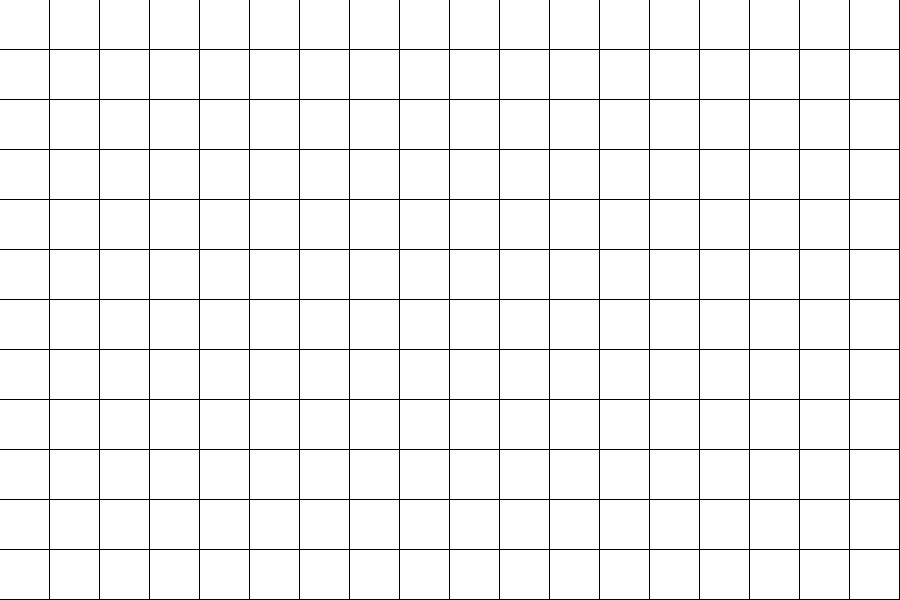
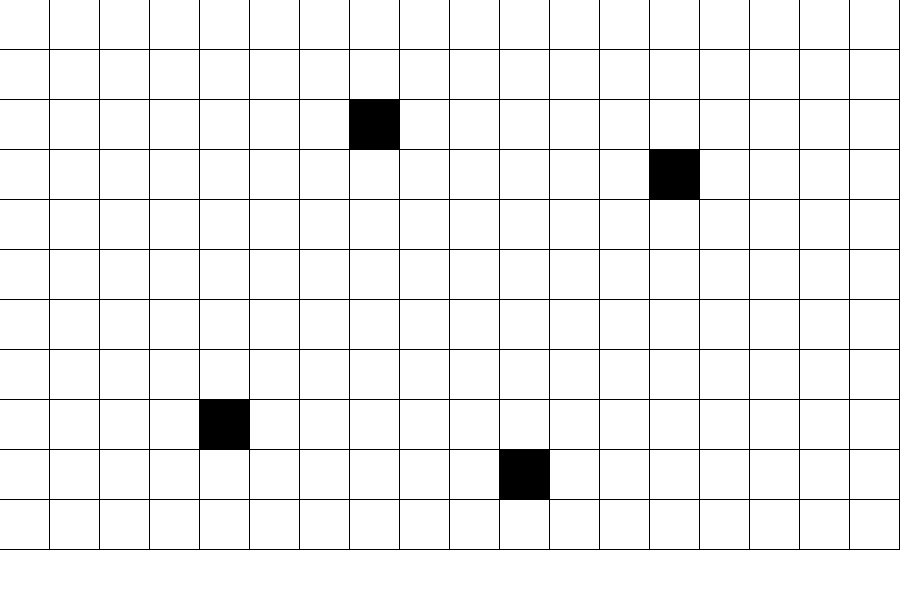
Beta 0.6
CHANGES TO CONQUEST.JAVA
Moved screen parameter setting-related commands to the
setScreenParameters() method, called from the constructor.
btnCapture is now initially disabled.
Added method checkPossibleCapture(), calls the findCapturePoint()
method. If findCapturePoint() returns true, btnCapture will be enabled.
Fixed upgrade button not mapped to relevant unit bug.

CHANGES TO CONQUESTMAP.JAVA
Added capture point location arrays.
Added initCapturePoitns method. Called from constructor.
Added findCapturePoint() method.

OTHER CHANGES
Changed map to have 4 black squares. These are capture points.

diff --git a/src/io/github/whalesaredelicious/conquest/Conquest.java b/src/io/github/whalesaredelicious/conquest/Conquest.java
@@ -46,6 +46,7 @@ public class Conquest extends JFrame {
     public static int intUnit2_2Power = 1;
     public static int intUnit2_3Power = 1;
     
+    private boolean booleanDiceRolled = false;
     public static boolean[] booleanUnitKilled = new boolean[6];
     
     public static boolean booleanIsPlayer1Turn = true;
@@ -95,12 +96,7 @@ public class Conquest extends JFrame {
         initLabels();
         initUnitsKilled();
         
-        setLayout(null);
-        setResizable(false);
-        setSize(600, 400); //Screen size
-        setAlwaysOnTop(true);
-        setLocationRelativeTo(null);
-        setLblUnitPower();
+        setScreenParameters();
     }
     
     //Main method
@@ -138,6 +134,14 @@ public class Conquest extends JFrame {
     }
     
     //Initialisation methods - setting up GUI elements
+    private void setScreenParameters() {
+        setLayout(null);
+        setResizable(false);
+        setSize(600, 400); //Screen size
+        setAlwaysOnTop(true);
+        setLocationRelativeTo(null);
+        setLblUnitPower();
+    }
     private void initControls() {
         /*
             Higher-level method that oversees the initialisation
@@ -309,6 +313,8 @@ public class Conquest extends JFrame {
         
         //Move count related buttons are disabled initially
         toggleMoveCountButtonState(false, false);
+        //Disable capture button
+        btnCapture.setEnabled(false);
 
     }
     private void setLabelParameters() {
@@ -342,6 +348,10 @@ public class Conquest extends JFrame {
     }
     
     //Unit management methods
+    private void checkPossibleCapture() {
+        int unitSelected = getSelectedUnit();
+        btnCapture.setEnabled(ConquestMap.findCapturePoint(unitSelected));
+    }
     public static int getSelectedUnit() {
         //Find the current selected unit.
         if (booleanIsPlayer1Turn) {
@@ -382,6 +392,7 @@ public class Conquest extends JFrame {
             if (processMove(1)) {
                 ConquestMap.move(moveDirection);
                 checkPossibleMoveDirections();
+                checkPossibleCapture();
             }
         }
     }
@@ -620,15 +631,15 @@ public class Conquest extends JFrame {
             switch (unitNumber) {
                 case 0:
                     btnSelectUnit1.setEnabled(true);
-                    btnUpgradeUnit1.setEnabled(true);
+                    //btnUpgradeUnit1.setEnabled(true);
                     break;
                 case 1:
                     btnSelectUnit2.setEnabled(true);
-                    btnUpgradeUnit2.setEnabled(true);
+                    //btnUpgradeUnit2.setEnabled(true);
                     break;
                 case 2:
                     btnSelectUnit3.setEnabled(true);
-                    btnUpgradeUnit2.setEnabled(true);
+                    //btnUpgradeUnit3.setEnabled(true);
                     break;
                 default:
                     log("Invalid unit parameter. (disableUnitButtons)");
@@ -639,15 +650,15 @@ public class Conquest extends JFrame {
             switch (unitNumber) {
                 case 3:
                     btnSelectUnit1.setEnabled(true);
-                    btnUpgradeUnit1.setEnabled(true);
+                    //btnUpgradeUnit1.setEnabled(true);
                     break;
                 case 4:
                     btnSelectUnit2.setEnabled(true);
-                    btnUpgradeUnit2.setEnabled(true);
+                    //btnUpgradeUnit2.setEnabled(true);
                     break;
                 case 5:
                     btnSelectUnit3.setEnabled(true);
-                    btnUpgradeUnit2.setEnabled(true);
+                    //btnUpgradeUnit3.setEnabled(true);
                     break;
                 default:
                     log("Invalid unit parameter. (disableUnitButtons)");
@@ -804,6 +815,7 @@ public class Conquest extends JFrame {
         setLblUnitPower();
 
         toggleMoveCountButtonState(false, false); //disable all buttons.
+        booleanDiceRolled = false;
         btnRollDice.setEnabled(true); //enable roll dice button
         checkUnitsKilled(); //check for units that have been killed.
     }
@@ -832,10 +844,7 @@ public class Conquest extends JFrame {
         btnUpgradeUnit2.setEnabled(true);
         btnUpgradeUnit3.setEnabled(true);
         
-        //Check if attack mode is enabled.l
-        if (booleanAttackMode) {
-            attackMode();
-        }
+        booleanDiceRolled = true;
         
         //Check which units are killed
         checkUnitsKilled();
@@ -1032,15 +1041,21 @@ public class Conquest extends JFrame {
     }
     private void btnSelectUnit1Pressed(ActionEvent evt) {
         selectUnit(0);
-        disableAttackMode();
+        if (booleanAttackMode) {
+            disableAttackMode();
+        }
     }
     private void btnSelectUnit2Pressed(ActionEvent evt) {
         selectUnit(1);
-        disableAttackMode();
+        if (booleanAttackMode) {
+            disableAttackMode();
+        }
     }
     private void btnSelectUnit3Pressed(ActionEvent evt) {
         selectUnit(2);
-        disableAttackMode();
+        if (booleanAttackMode) {
+            disableAttackMode();
+        }
     }
     private void btnUpgradeUnit1Pressed(ActionEvent evt) {
         upgradeUnit(1, 1);
@@ -1060,13 +1075,18 @@ public class Conquest extends JFrame {
     private void btnAttackPressed(ActionEvent evt) {
         //Toggle attack mode.
         if (booleanUnitSelected) {
-            if (booleanAttackMode) {
-                booleanAttackMode = false;
-                disableAttackMode();
+            if (booleanDiceRolled) {
+                if (booleanAttackMode) {
+                    booleanAttackMode = false;
+                    disableAttackMode();
+                }
+                else {
+                    booleanAttackMode = true;
+                    attackMode();
+                }
             }
             else {
-                booleanAttackMode = true;
-                attackMode();
+                msgBox("Roll the dice first.", "Dice not rolled", "plain");
             }
         }
         else {

diff --git a/src/io/github/whalesaredelicious/conquest/ConquestMap.java b/src/io/github/whalesaredelicious/conquest/ConquestMap.java
@@ -16,8 +16,7 @@
 
     /**
      * TO DO:
-     * Checks to ensure that units cannot move off the grid.
-     * Prevent units from moving into each other.
+     * Capture system.
      */
 
 package io.github.whalesaredelicious.conquest;
@@ -37,7 +36,12 @@ public final class ConquestMap extends JFrame {
     public static int[] intUnit2_2Coords = new int[2];
     public static int[] intUnit2_3Coords = new int[2];
     
+    public static int[] intCapturePointA = new int[2], intCapturePointB = new int[2],
+            intCapturePointC = new int[2], intCapturePointD = new int[2];
+    public static int[][] intCapturePointLocations = new int[4][2];
+    
     public static boolean[][] booleanGridOccupied = new boolean[18][11];
+    public static boolean[][] booleanGridCapturePoints = new boolean[18][11];
     
     //Constructor method
     public ConquestMap() {
@@ -154,7 +158,7 @@ public final class ConquestMap extends JFrame {
         initPointLocation();
         resetGridOccupied();
         initUnitLocations();
-        
+        initCapturePoints();
     }
     private void initPointLocation() {
         //Make possible location points
@@ -162,11 +166,36 @@ public final class ConquestMap extends JFrame {
         for (int gridX = 0; gridX < pointLocation.length; gridX++) {
             for (int gridY = 0; gridY < pointLocation[gridY].length; gridY++) {
                 pointLocation[gridX][gridY] = new Point();
-                //log(Integer.toString(gridX) + ", " + Integer.toString(gridY));
                 pointLocation[gridX][gridY].x = gridX * intMoveAmount;
                 pointLocation[gridX][gridY].y = gridY * intMoveAmount;
             }
         }
+
+    }
+    private void initCapturePoints() {
+        int x = 0, y = 1; //Coordinate axes
+        
+        //Initialise grid capture points.
+        for (int gridX = 0; gridX < booleanGridCapturePoints.length; gridX++) {
+            for (int gridY = 0; gridY < booleanGridCapturePoints[gridX].length; gridY++) {
+                booleanGridCapturePoints[gridX][gridY] = false;
+            }
+        }
+        //Set capture point locations
+        intCapturePointA[x] = 7; intCapturePointA[y] = 2;
+        intCapturePointB[x] = 13; intCapturePointB[y] = 3;
+        intCapturePointC[x] = 4; intCapturePointC[y] = 8;
+        intCapturePointD[x] = 10; intCapturePointD[y] = 9;
+        
+        //Bind these locations to the capture points array.
+        intCapturePointLocations[0][0] = intCapturePointA[x];
+        intCapturePointLocations[0][1] = intCapturePointA[y];
+        intCapturePointLocations[1][0] = intCapturePointB[x];
+        intCapturePointLocations[1][1] = intCapturePointB[y];
+        intCapturePointLocations[2][0] = intCapturePointC[x];
+        intCapturePointLocations[2][1] = intCapturePointC[y];
+        intCapturePointLocations[3][0] = intCapturePointD[x];
+        intCapturePointLocations[3][1] = intCapturePointD[y];
     }
 
     private void initUnitLocations() {
@@ -457,7 +486,7 @@ public final class ConquestMap extends JFrame {
                 }
                 break;
             case 4:
-                if (!Conquest.booleanUnitKilled[3]) {
+                if (!Conquest.booleanUnitKilled[4]) {
                     if (intUnit2_2Coords[y] > 0) {
                         if (booleanGridOccupied[intUnit2_2Coords[x]][intUnit2_2Coords[y] - 1]) {
                             booleanButtonGreyOut[0] = true;
@@ -481,7 +510,7 @@ public final class ConquestMap extends JFrame {
                 }
                 break;
             case 5:
-                if (!Conquest.booleanUnitKilled[2]) {
+                if (!Conquest.booleanUnitKilled[5]) {
                     if (intUnit2_3Coords[y] > 0) {
                         if (booleanGridOccupied[intUnit2_3Coords[x]][intUnit2_3Coords[y] - 1]) {
                             booleanButtonGreyOut[0] = true;
@@ -510,6 +539,54 @@ public final class ConquestMap extends JFrame {
         }
         
         return booleanButtonGreyOut;
+    }
+    public static boolean findCapturePoint(int unitSelected) {
+        int x = 0, y = 1; //Coordinate axes
+        int[] intUnitLocation = new int[2];
+        switch (unitSelected) {
+            case 0:
+                for (int i = 0; i < intUnit1_1Coords.length; i++) {
+                    intUnitLocation[i] = intUnit1_1Coords[i];
+                }
+                break;
+            case 1:
+                for (int i = 0; i < intUnit1_2Coords.length; i++) {
+                    intUnitLocation[i] = intUnit1_2Coords[i];
+                }
+                break;
+            case 2:
+                for (int i = 0; i < intUnit1_3Coords.length; i++) {
+                    intUnitLocation[i] = intUnit1_3Coords[i];
+                }
+                break;
+            case 3:
+                for (int i = 0; i < intUnit2_1Coords.length; i++) {
+                    intUnitLocation[i] = intUnit2_1Coords[i];
+                }
+                break;
+            case 4:
+                for (int i = 0; i < intUnit2_2Coords.length; i++) {
+                    intUnitLocation[i] = intUnit2_2Coords[i];
+                }
+                break;
+            case 5:
+                for (int i = 0; i < intUnit2_3Coords.length; i++) {
+                    intUnitLocation[i] = intUnit2_3Coords[i];
+                }
+                break;
+            default:
+                log("Invalid unit number (findCapturePoint)");
+                break;
+        }
+        boolean booleanCapturePointFound = false;
+        for (int i = 0; i < intCapturePointLocations.length; i++) {
+            if (intUnitLocation[x] == intCapturePointLocations[i][x]
+                    && intUnitLocation[y] == intCapturePointLocations[i][y]) {
+                booleanCapturePointFound = true;
+                break;
+            }
+        }
+        return booleanCapturePointFound;
     }
     //Unit management methods
     public static void move(int moveDirection) {
